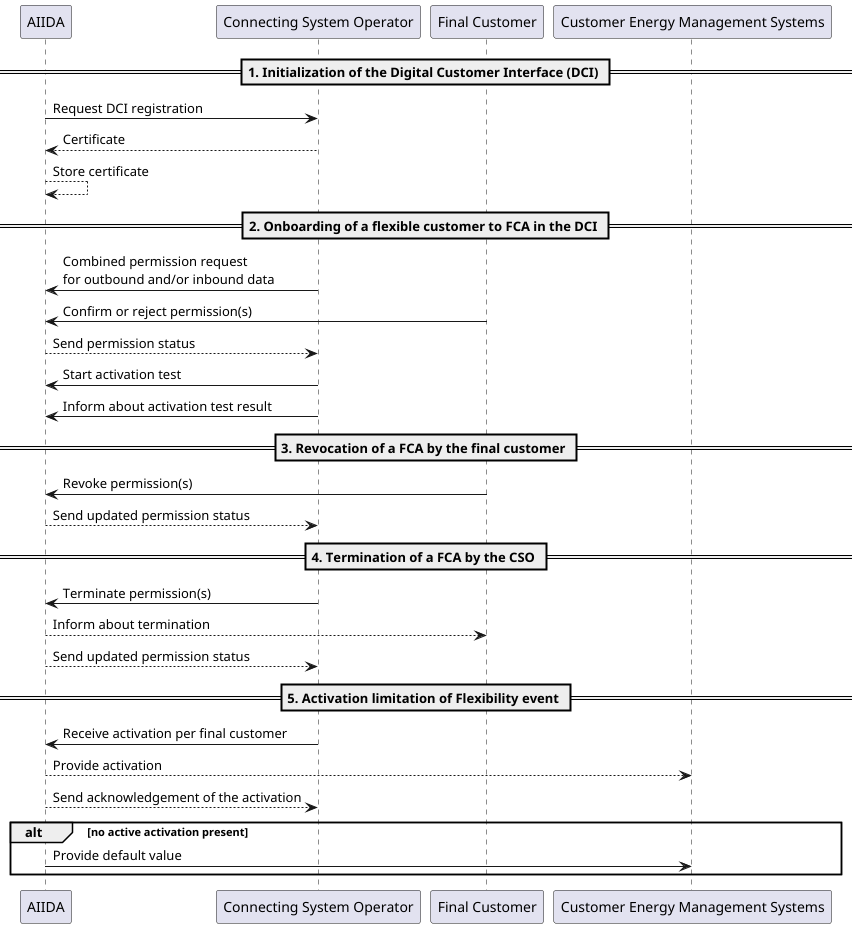
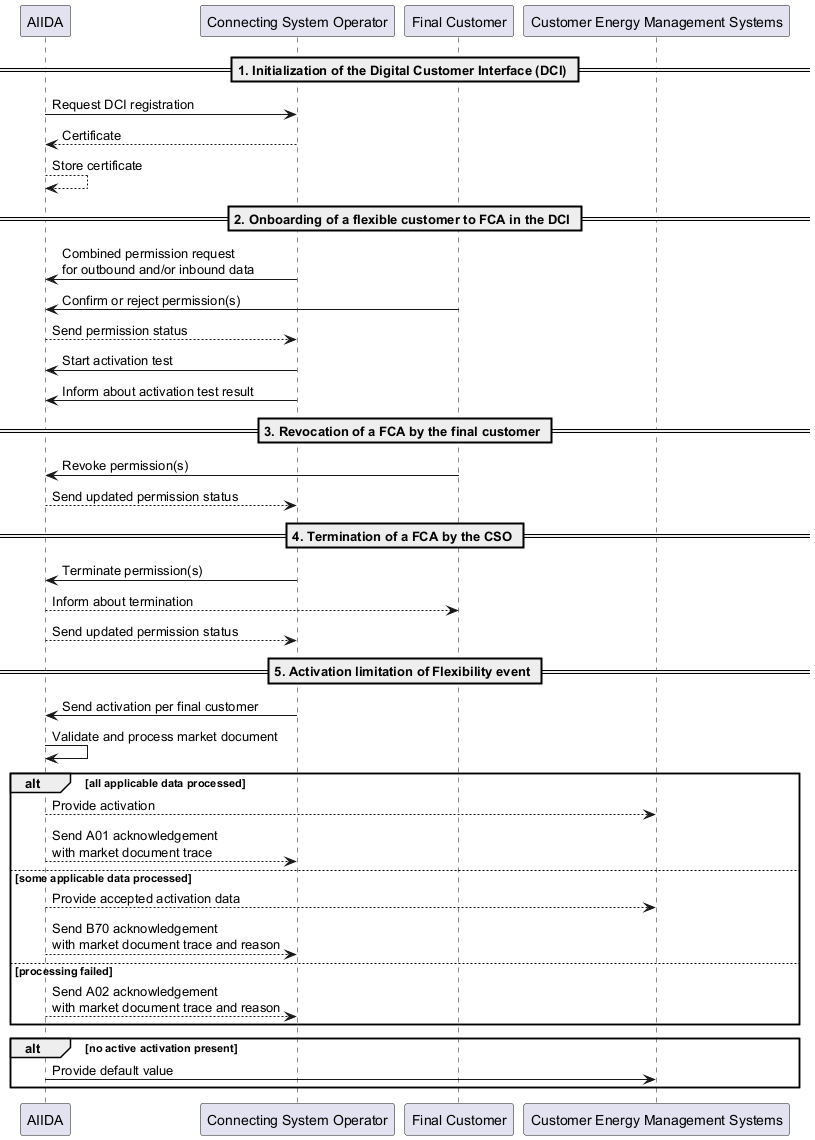
feat(aiida): Include in acknowledgements if processing was successful or why it failed #2594 - Add documentation on acknowledgements

Changed region(s): [[0.0, 0.0, 1.0, 1.0], [0.9509, 0.75, 1.0, 0.7812], [0.7975, 0.75, 0.8282, 0.7812]]

diff --git a/aiida/docs/2-integrating/acknowledgements.md b/aiida/docs/2-integrating/acknowledgements.md
@@ -6,11 +6,85 @@ The eligible party can [enable acknowledgements in the data need](../1-running/d
 ## Inbound Data
 
 For an inbound permission, the EP sends data to AIIDA.
-If the data need sets `acknowledgementRequired` to `true`, AIIDA sends an acknowledgement to the EP after AIIDA receives the data.
-The acknowledgement is an [Acknowledgement Market Document](https://architecture.eddie.energy/framework/2-integrating/messages/cim/acknowledgement-market-documents.html#acknowledgement-market-document).
+If the data need sets `acknowledgementRequired` to `true`, AIIDA sends an acknowledgement to the EP after processing the inbound message.
+The acknowledgement describes the final processing result; it is not only a transport receipt.
 The EP reads the acknowledgement from the outbound connector of the EDDIE instance.
-The market document MRID of the acknowledgement is identical to the MRID of the message that the EP sent.
-The EP can use this MRID to correlate the acknowledgement with the transmitted data.
+
+```mermaid
+sequenceDiagram
+    participant EP as Eligible party
+    participant AIIDA
+    EP ->> AIIDA: Inbound market document
+    AIIDA ->> AIIDA: Validate and process
+    alt Fully processed
+        AIIDA -->> EP: A01 (fully accepted)
+    else Partly processed
+        AIIDA -->> EP: B70 (partially accepted) + reason
+    else Processing failed
+        AIIDA -->> EP: A02 (fully rejected) + reason
+    end
+```
+
+### Processing Results
+
+| AIIDA result         | CIM reason code | Meaning                                                                                                                      |
+|----------------------|-----------------|------------------------------------------------------------------------------------------------------------------------------|
+| `ACCEPTED`           | `A01`           | AIIDA processed every applicable part of the message successfully.                                                           |
+| `PARTIALLY_ACCEPTED` | `B70`           | AIIDA processed part of the message and ignored or rejected another part. The reason text summarizes what was not processed. |
+| `REJECTED`           | `A02`           | AIIDA could not apply any part of the message. The reason text explains the failure.                                         |
+
+For connection limits, `B70` is used when AIIDA stores at least one point but ignores other points because newer or equally
+recent values already exist. If all points are ignored or validation fails, AIIDA returns `A02`.
+
+Examples of rejection reasons include:
+
+- the document permission ID does not match the receiving permission
+- the document meter ID does not match the permission meter ID
+- the revision is not newer than the latest processed revision for the same mRID
+- the mRID, creation time, or a valid revision is missing
+- the document has no connection-limit points
+- AIIDA encountered an error while processing the document
+
+### Correlating an Acknowledgement
+
+The acknowledgement is a new market document and therefore has its own `MarketDocument.mRID`. Use the following fields to
+trace it back to the inbound market document and permission:
+
+| Acknowledgement field                                       | Use                                                                           |
+|-------------------------------------------------------------|-------------------------------------------------------------------------------|
+| `received_MarketDocument.mRID`                              | Primary correlation key. It contains the mRID of the inbound market document. |
+| `received_MarketDocument.revisionNumber`                    | Identifies the inbound document revision.                                     |
+| `received_MarketDocument.createdDateTime`                   | Identifies when the inbound document was created.                             |
+| `received_MarketDocument.process.processType`               | Preserves the inbound process type.                                           |
+| `MessageDocumentHeader.MetaInformation.requestPermissionId` | Identifies the receiving AIIDA permission.                                    |
+| `MessageDocumentHeader.MetaInformation.dataNeedId`          | Identifies the data need.                                                     |
+| `MessageDocumentHeader.MetaInformation.dataSourceId`        | Identifies the AIIDA inbound data source.                                     |
+| `MessageDocumentHeader.MetaInformation.Asset`               | Identifies the configured asset, meter, and operator where available.         |
+
+When an inbound payload is too malformed to read its market-document fields, AIIDA still returns an `A02` acknowledgement
+with the permission and data-source metadata. Fields that cannot be recovered from that payload are omitted.
+
+### Reading a Failure
+
+The first `Reason` contains both the resulting acknowledgement code and, for partial or failed processing, diagnostic text:
+
+```xml
+<received_MarketDocument.mRID>document-1</received_MarketDocument.mRID>
+<received_MarketDocument.revisionNumber>2</received_MarketDocument.revisionNumber>
+<Reason>
+<code>A02</code>
+<text>Revision 2 is not newer than the latest processed revision 2 for mRID document-1</text>
+</Reason>
+```
+
+Consumers should correlate on `received_MarketDocument.mRID`, branch on the reason code, and expose the reason text when the
+code is `B70` or `A02`.
+
+### Current Schema Behavior
+
+For `MIN_MAX_ENVELOPE_CIM_V1_12`, AIIDA waits for connection-limit validation and persistence before publishing the
+acknowledgement. For `OPAQUE`, AIIDA has no schema-specific processor, so successful handoff to AIIDA's inbound stream is
+reported as `A01`.
 
 ## Outbound Data
 

diff --git a/aiida/docs/1-running/data-need.md b/aiida/docs/1-running/data-need.md
@@ -18,7 +18,7 @@ AIIDA supports two types of data needs: inbound and outbound. Outbound data need
 | `duration`                  | Object              | Describes the timeframe for this data need.                                                                                                |
 | `transmissionSchedule`      | String              | Cron expression that defines how often the data should be sent or received.                                                                |
 | `allowedPermissionCommands` | String[]            | Permission commands the EP may send to update an existing permission. See [Permission Commands](#permission-commands). Default `[]`.       |
-| `acknowledgementRequired`   | boolean             | Whether an acknowledgement is required for the data transmission. See [Acknowledgement](#acknowledgement).                                 |
+| `acknowledgementRequired`   | boolean             | Whether an acknowledgement is required for the data transmission. See [Acknowledgements](../2-integrating/acknowledgements.md).            |
 | `schemas`                   | String[]            | [Schemas](./schemas/schemas.md) that define the structure and format of the data, e.g. standardized schemas such as CIM or custom schemas. |
 | `asset`                     | String              | The asset that the data need is associated with, linking the data to specific physical or logical assets.                                  |
 | `dataTags`                  | String[] (optional) | Data tags further specify the type of data expected. If omitted, it is assumed that all available data is included.                        |
@@ -97,14 +97,12 @@ AIIDA supports two types of data needs: inbound and outbound. Outbound data need
 
 ## Acknowledgement
 
-If the `acknowledgementRequired` field is set to `true`, the receiving party (either AIIDA or the EP) is expected to send an acknowledgement message back to the sender after successfully receiving and processing the data.
-This acknowledgement message serves as a confirmation that the data has been received and processed correctly, and can be used to ensure reliable communication between AIIDA and EPs.
+If `acknowledgementRequired` is `true`, the receiver sends an acknowledgement after processing the message.
+The acknowledgement reports whether processing succeeded, partially succeeded, or failed and is available in the outbound connector being used.
 
-The acknowledgement is available in the outbound connector being used.
+For details about status codes, correlation fields, and failure reasons, see:
 
-For more details, see:
-
-- [Subscribing to Acknowledgements](../2-integrating/acknowledgements.md)
+- [Acknowledgements](../2-integrating/acknowledgements.md)
 - [Acknowledgement Market Document](https://architecture.eddie.energy/framework/2-integrating/messages/cim/acknowledgement-market-documents.html#acknowledgement-market-document)
 
 ## Permission Commands
